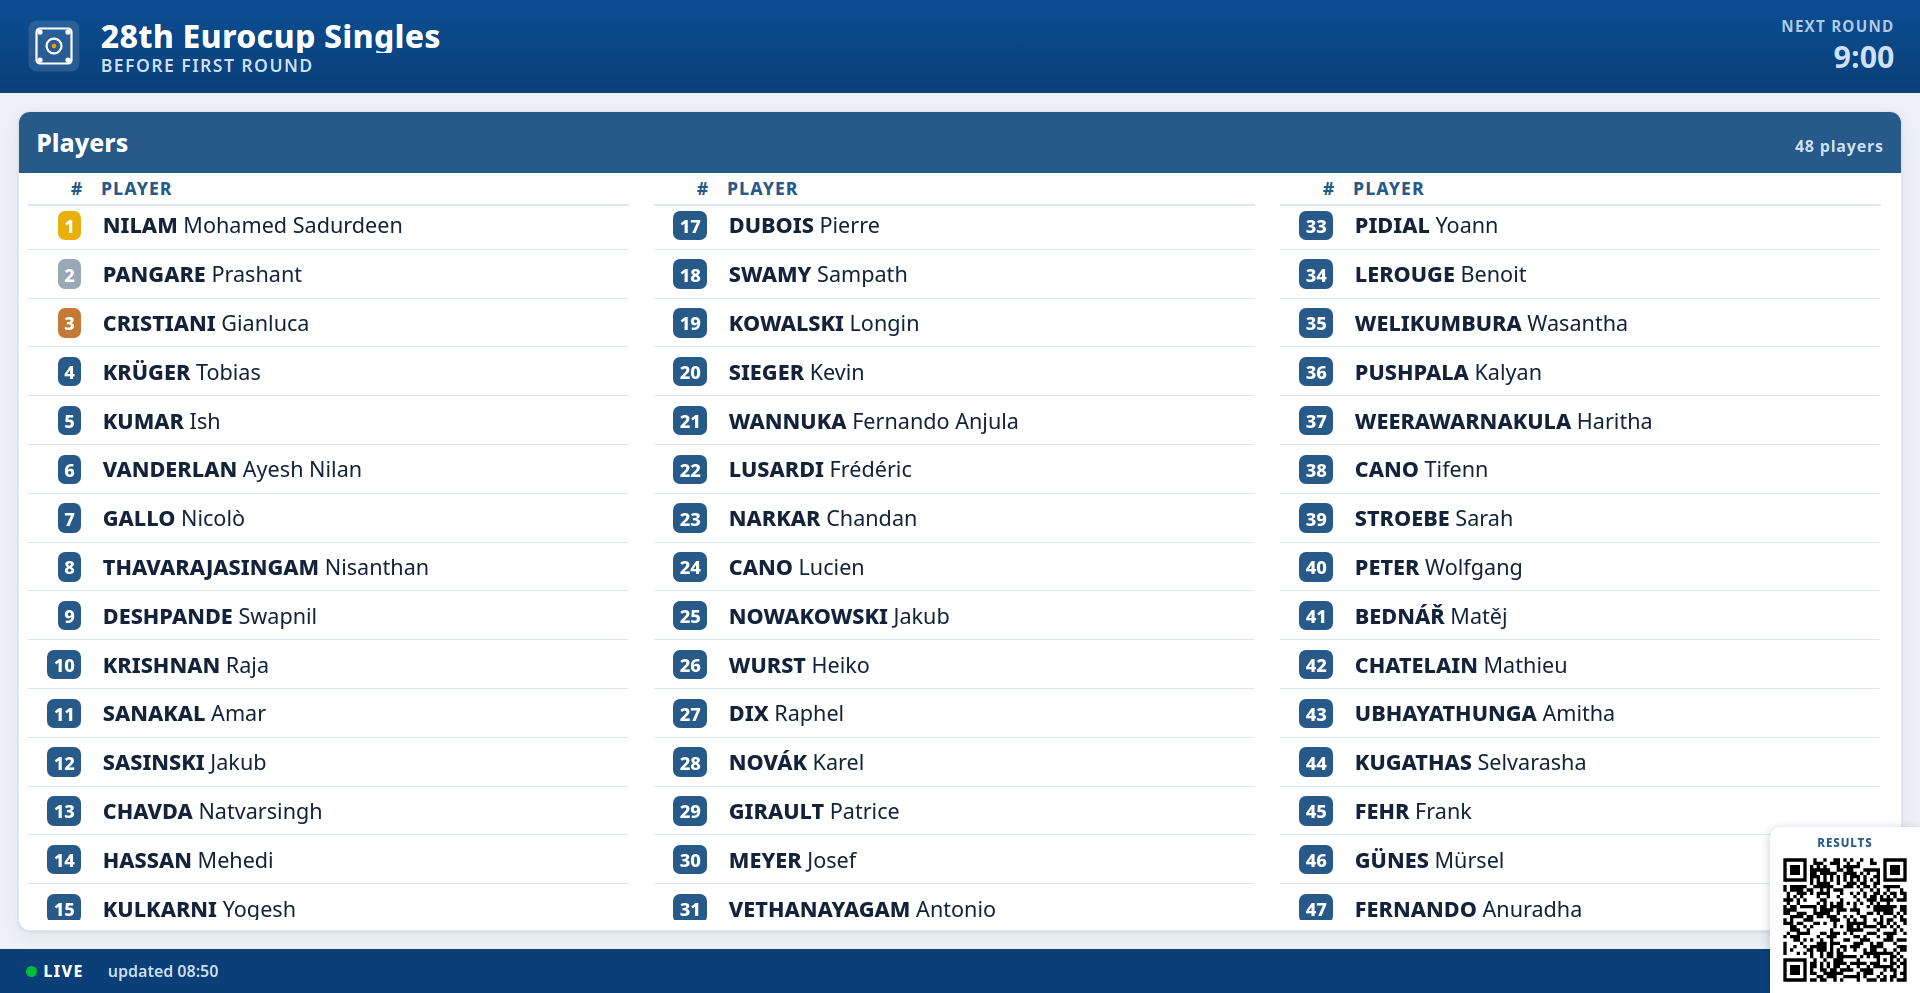
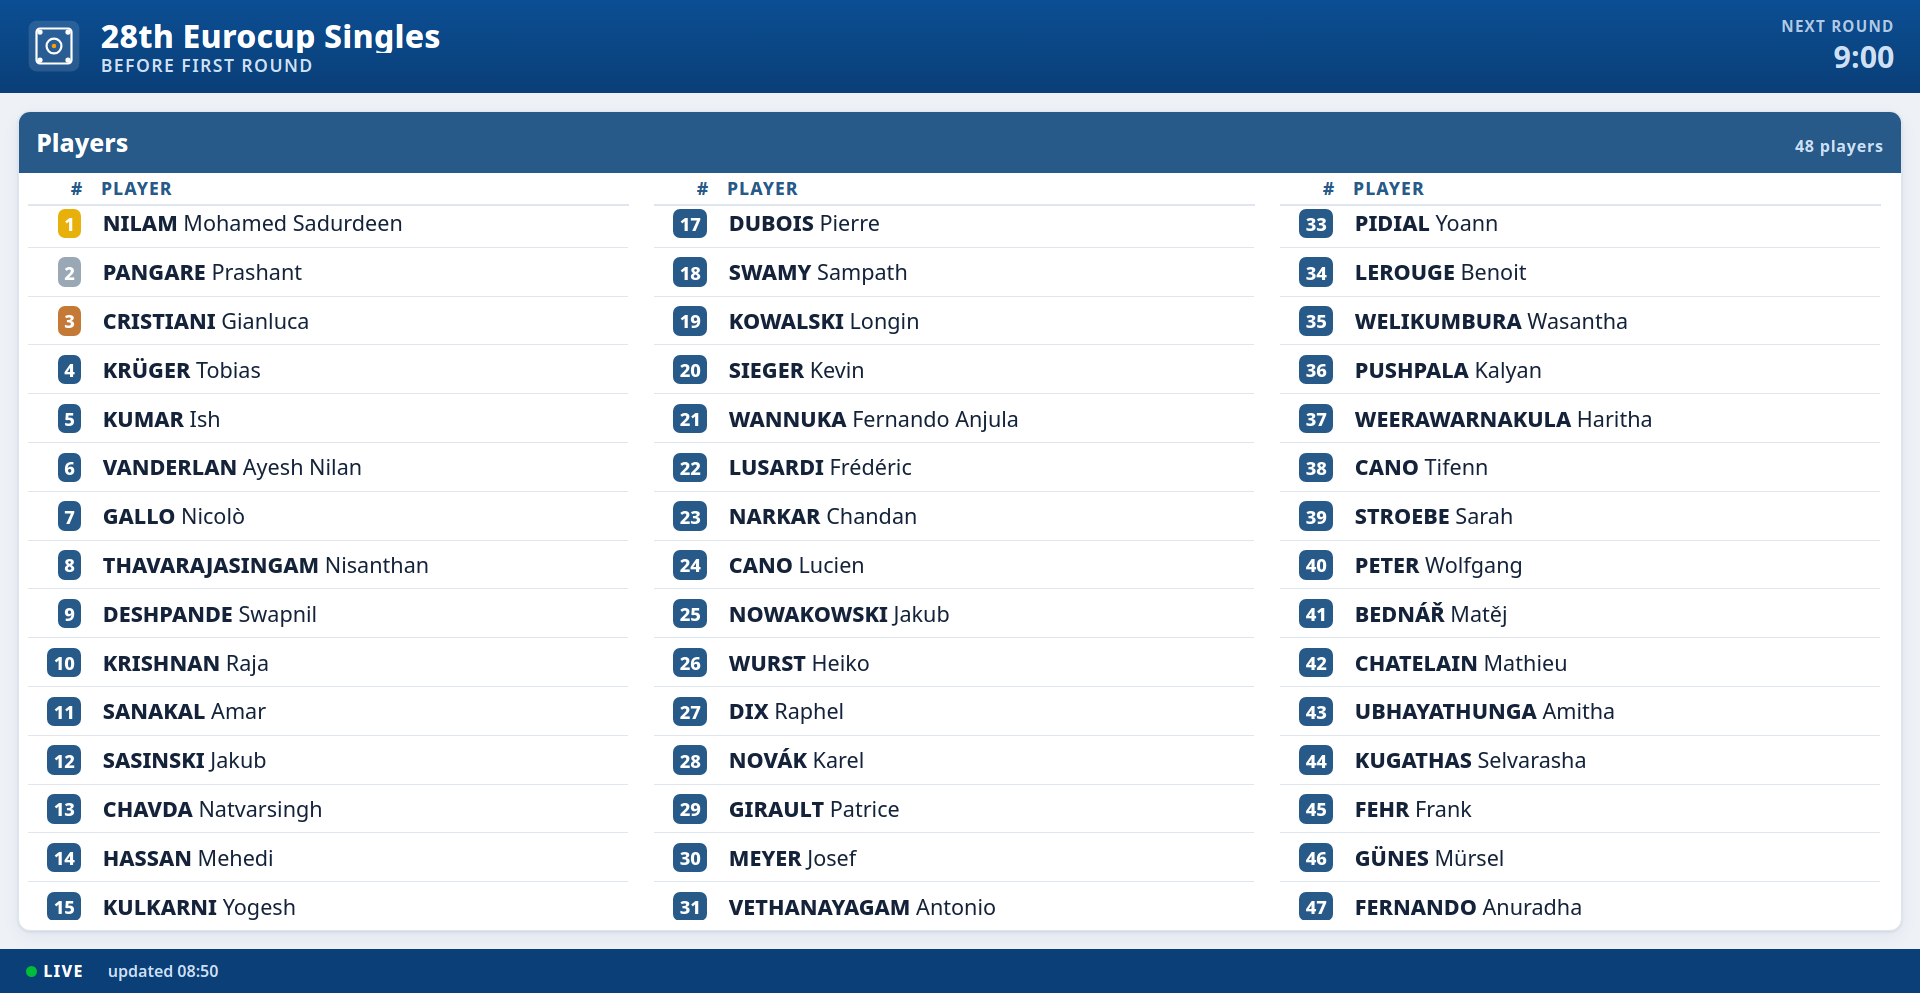
footer: report the real connection state instead of a fixed "LIVE"
The badge was static markup -- a green blinking dot reading LIVE, never
touched by any code. It claimed a working SoL connection while the page
was still waiting for its first poll, while it was re-solving an Anubis
challenge, after a fetch had failed, and (since the previous commit)
while the URL prompt was up with nothing configured to poll at all.
On a corridor screen that badge is the only indication anyone has that
the numbers are current, so a permanently green one is worse than none.

Drive it from applyStatus, which every status change already funnels
through: green Live once data renders, amber Connecting before the
first poll and during an Anubis solve, orange Offline on a failed poll,
hidden entirely when unconfigured. Offline holds steady rather than
blinking -- a dead connection that keeps pulsing reads as activity.
Colours come from the existing palette (--amber, --orange), no new ones.

start(), not poll(), sets the ok state: rendering real data IS the live
signal, and start() has exactly one caller which set it immediately
after. Keeping it in the renderer also means the mock-driven screenshots
report Live without the harness faking a status.

Only write the badge when the state actually changes, and never replace
the dot element -- a poll lands every minute and rewriting it each time
restarted the blink, so the pulse hiccupped once a minute.

The screenshot harness now freezes CSS animations at keyframe 0%. The
[…]

diff --git a/dashboard.html b/dashboard.html
@@ -286,7 +286,19 @@ footer.app{
   background:#0a3f78;color:#cfe0f5;font-size:clamp(.72rem,1.3vw,1rem);font-weight:600;
 }
 footer.app .live{color:#fff;font-weight:800;text-transform:uppercase;letter-spacing:.08em}
-footer.app .live .statedot{background:var(--green);animation:blink 1.6s step-end infinite}
+/* Connection state, driven by applyStatus. The dot was permanently green, which claimed
+   a working SoL connection while the page was still waiting for its first poll, or had
+   just failed one. Blink stays step-end everywhere — see the performance note. */
+footer.app .live .statedot{background:currentColor;animation:blink 1.6s step-end infinite}
+footer.app .live.ok{color:#fff}
+footer.app .live.ok .statedot{background:var(--green)}
+footer.app .live.warn{color:var(--amber)}
+footer.app .live.warn .statedot{background:var(--amber);animation:blink .9s step-end infinite}
+/* Offline holds steady: a dead connection that keeps pulsing reads as activity. */
+footer.app .live.err{color:var(--orange)}
+footer.app .live.err .statedot{background:var(--orange);animation:none}
+/* Nothing configured to poll — the URL prompt is up, so there is no connection to report. */
+footer.app .live.off{display:none}
 footer.app .src{margin-left:auto;opacity:.75}
 
 /* Zoom control — centred in the footer, revealed only on hover so the corridor
@@ -525,7 +537,7 @@ body>.sset{width:auto;border-radius:0}
 </main>
 
 <footer class="app">
-  <span class="live"><span class="statedot"></span>Live</span>
+  <span class="live warn" id="connbadge"><span class="statedot"></span><span id="conntext">Connecting</span></span>
   <span id="updated"></span>
   <div class="zoomctl">
     <button type="button" class="zbtn" id="zoomOut" title="Zoom out (−)">−</button>
@@ -3670,7 +3682,6 @@ async function poll(){
     data.idtourney = idt;
     if (TOTAL_ROUNDS) data.event.totalRounds = TOTAL_ROUNDS;
     start(data);
-    applyStatus({ state: "ok", message: "" });
 
     // After the board is up: the emblem costs a fetch and must never delay the render.
     resolveEmblem(rank).catch((e) => console.warn("[emblem] resolve failed:", e));
@@ -3694,6 +3705,7 @@ const LABELS = {
   updated: "updated", finished: "Finished", inProgress: "In progress", bye: "Bye",
   pts: "Pts", bch: "Bch", net: "Net", page: "page", source: "source",
   afterRound: "after round",
+  connLive: "Live", connConnecting: "Connecting", connOffline: "Offline",
 };
 
 const SCROLL_SPEED = 28;      // px/sec vertical drift
@@ -3844,6 +3856,9 @@ function start(data){
     bar.style.display = "none";
     renderNextRound();     // keep the "next round ~" estimate up between timers
   }
+  // Rendering real data IS the live signal, so the renderer owns it rather than its
+  // caller — which also keeps the mock-driven screenshots honest for free.
+  applyStatus({ state: "ok", message: "" });
 }
 
 /* Auto-scroll a panel body: drift the .scroller down at SCROLL_SPEED, pause at the
@@ -4414,12 +4429,39 @@ function refreshFooter(){
   el.textContent = LABELS.updated + " " + hhmm(new Date(DATA.updatedISO));
 }
 
+/* Footer connection badge, keyed by the same status everything else in the footer uses.
+   "waiting" is the pre-first-poll default, so a page that never reaches SoL keeps saying
+   Connecting rather than Live. "unconfigured" hides it: with the URL prompt up there is
+   no tournament to be connected to, and an amber "connecting" would be equally untrue. */
+const CONN_STATES = {
+  ok:           { cls: "ok",   text: LABELS.connLive },
+  anubis:       { cls: "warn", text: LABELS.connConnecting },
+  waiting:      { cls: "warn", text: LABELS.connConnecting },
+  error:        { cls: "err",  text: LABELS.connOffline },
+  unconfigured: { cls: "off",  text: LABELS.connConnecting },
+};
+/* Seeded to match the markup, and only written when it actually changes: a poll lands
+   every minute, and rewriting the badge each time would restart the dot's blink — the
+   pulse would visibly hiccup on every poll. The dot element is never replaced for the
+   same reason, so its animation runs uninterrupted. */
+let connState = "waiting";
+
 function applyStatus(status){
+  const state = (status && status.state) || "waiting";
   const note = document.getElementById("dashstatus");
-  if (!note) return;
-  if (status && status.state === "anubis") note.textContent = "⚠ " + (status.message || "Anubis — reconnecting…");
-  else if (status && status.state === "error") note.textContent = "⚠ " + (status.message || "error");
-  else note.textContent = "";
+  if (note){
+    if (state === "anubis") note.textContent = "⚠ " + (status.message || "Anubis — reconnecting…");
+    else if (state === "error") note.textContent = "⚠ " + (status.message || "error");
+    else note.textContent = "";
+  }
+  const badge = document.getElementById("connbadge");
+  const text = document.getElementById("conntext");
+  if (badge && text && state !== connState){
+    const s = CONN_STATES[state] || CONN_STATES.waiting;
+    connState = state;
+    badge.className = "live " + s.cls;
+    text.textContent = s.text;
+  }
 }
 
 // Small helper to surface solve progress in the footer without blanking the board.
@@ -4450,7 +4492,7 @@ function showEmpty(status){
    ?url= set and every other query param kept, exactly as if it had been typed —
    which also makes the result bookmarkable. */
 function showUrlPrompt(){
-  showEmpty({});
+  showEmpty({ state: "unconfigured" });
   document.getElementById("eventName").textContent = "SoL Live Dashboard";
   const p = document.getElementById("urlPrompt");
   if (!p.classList.contains("on")){

diff --git a/screenshots/generate.py b/screenshots/generate.py
@@ -24,7 +24,13 @@ HERE = os.path.dirname(os.path.abspath(__file__))
 ROOT = os.path.dirname(HERE)
 SRC = open(os.path.join(ROOT, "dashboard.html"), encoding="utf-8").read()
 BOOT = "poll();\nsetInterval(poll, Math.max(30, CONFIG.pollSeconds) * 1000);"
-HEAD_INJ = "<style>html{font-size:16px!important}</style>"
+# font-size: a denser 1080p view. Frozen animations: every blink (live dots, prealarm,
+# the footer badge) is a step-end loop, so a still lands on whatever phase the run
+# happened to reach and the PNGs churn on every regeneration. Pausing at delay 0 pins
+# them all to keyframe 0% — full opacity, which is the state a still should show.
+HEAD_INJ = ("<style>html{font-size:16px!important}"
+            "*,*::before,*::after{animation-delay:0s!important;animation-play-state:paused!important}"
+            "</style>")
 CHROME = os.environ.get("CHROME", "google-chrome")
 W, H = 1920, 1080
 random.seed(42)

diff --git a/CLAUDE.md b/CLAUDE.md
@@ -180,6 +180,13 @@ already scored (so "Round ended" holds until new pairings are drawn).
   rather than `scrollTop`. Together these took the dashboard from ~1 CPU core to a fraction of one on weak integrated
   GPUs. Smooth interpolation or per-frame scroll writes will bring the core back.
 - **No demo fallback:** with no live data show an empty board; on an Anubis challenge show "Reconnecting to SoL…".
+- **Footer connection badge** (`#connbadge`, `CONN_STATES`, driven only by `applyStatus`): green *Live* once data
+  renders, amber *Connecting* before the first poll and during an Anubis solve, orange *Offline* on a failed poll,
+  hidden entirely while the URL prompt is up. It was previously hardcoded green "LIVE" in the markup and never
+  updated, so it claimed a working SoL connection in every one of those states. `start()` — not `poll()` — sets the
+  `ok` state, because rendering real data *is* the live signal; that also keeps the mock-driven screenshots honest
+  without the harness having to fake a status. The badge is only rewritten when the state actually changes, and the
+  dot element is never replaced, or the blink would restart on every poll.
 
 ## Dev workflow / gotchas
 
@@ -193,8 +200,10 @@ already scored (so "Round ended" holds until new pairings are drawn).
   dashboard's appearance — layout, header/clock, standings, matches, or the finals panel — **re-run
   `python3 screenshots/generate.py`** and commit the updated PNGs. The mock scenarios (player pool, scores, clock
   states, next-round/updated times) live in that script; edit them there, not by hand-editing images.
-  The clock-bearing shots embed a wall-clock-derived time, so a re-run rewrites them even with no UI change —
-  `git checkout` the ones that only drifted, so the diff shows real changes.
+  The harness freezes CSS animations (`animation-play-state:paused` at delay 0) so every blink lands on keyframe 0%
+  instead of whatever phase the run reached — without it the PNGs churn on every regeneration. The two
+  running-clock shots (`02`, `03`) still drift, because their countdown ticks between page build and capture;
+  `git checkout` those when only the digits moved, so the diff shows real changes.
   Overlay shots (settings, URL prompt) are cropped to their panel via `PANEL_SEL` + `panel_rect`; the settings one
   stubs `window.open` so the panel takes its in-page fallback, since headless can't capture the detached popup.
   **Injections into the page must use `.replace(…, 1)`** — `</head>` also appears inside `openSettings`' own
